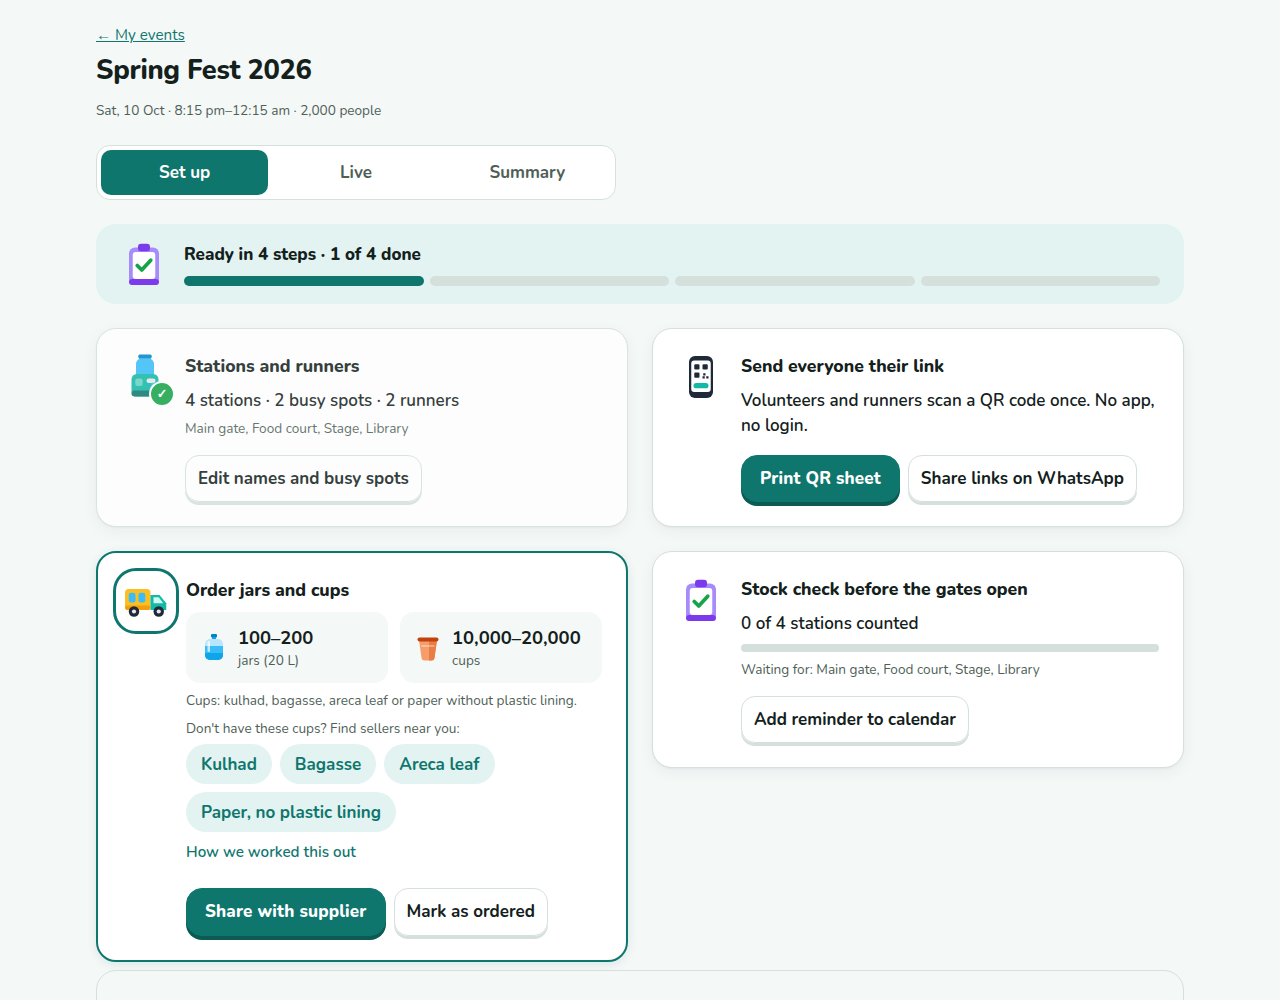
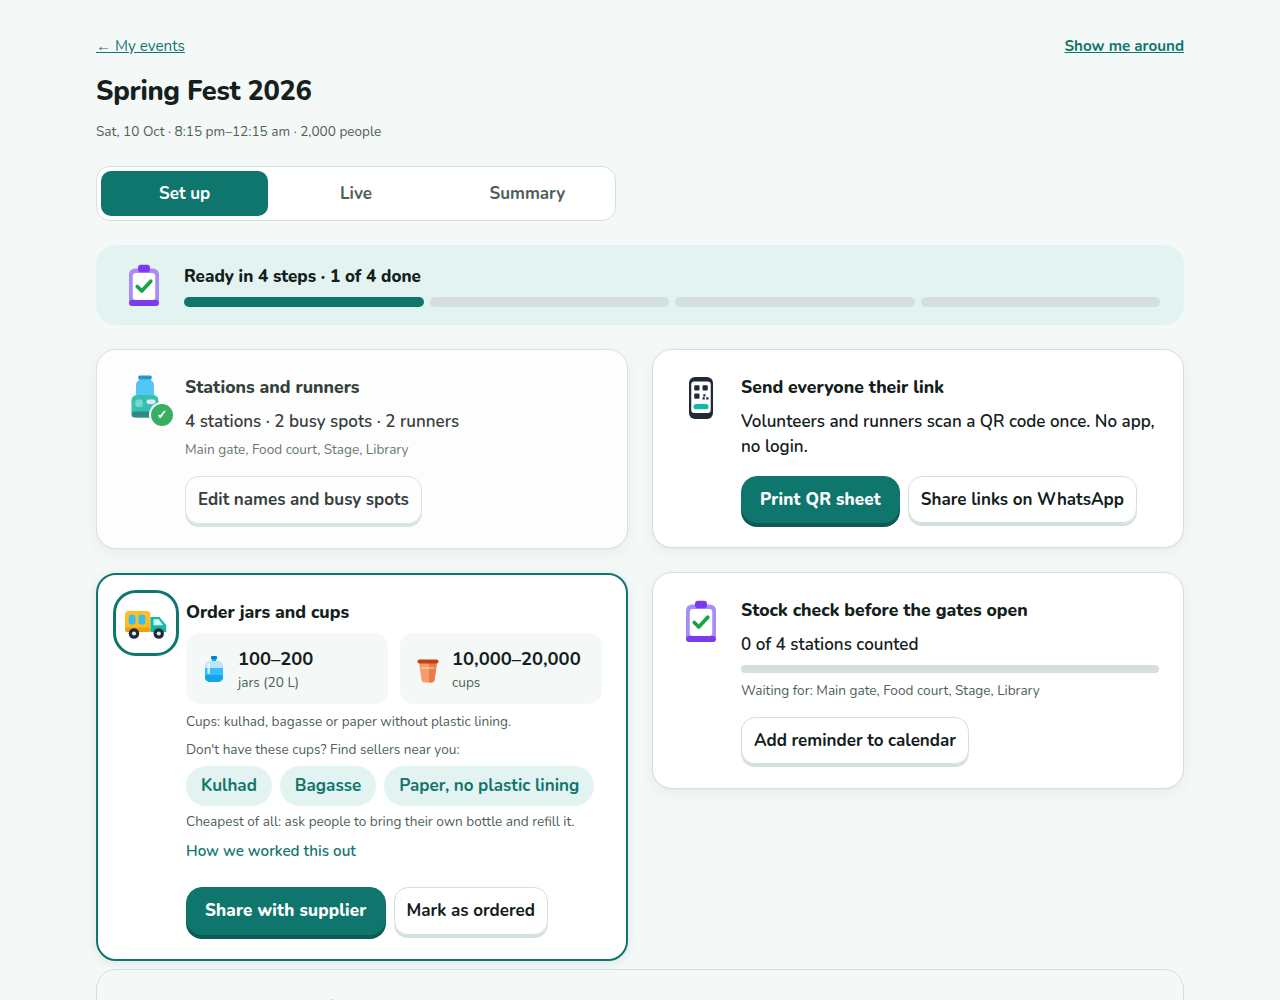
Cups: kulhad, bagasse, paper without plastic lining; bring-your-own-bottle tip

diff --git a/web/plan.html b/web/plan.html
@@ -86,7 +86,7 @@
         <section class="order-card" aria-live="polite">
           <p class="eyebrow">Order</p>
           <div class="order-item"><span class="icon-tile"><span class="art" data-art="jar"></span></span><span><strong id="planJars">–</strong><span class="small">jars of 20 L</span></span></div>
-          <div class="order-item"><span class="icon-tile"><span class="art" data-art="cup"></span></span><span><strong id="planCups">–</strong><span class="small">cups: kulhad, bagasse, areca leaf or paper without plastic lining</span></span></div>
+          <div class="order-item"><span class="icon-tile"><span class="art" data-art="cup"></span></span><span><strong id="planCups">–</strong><span class="small">cups: kulhad, bagasse or paper without plastic lining</span></span></div>
           <div class="cup-tip"><strong>Skip plastic-lined paper cups</strong><span class="small">Their lining sheds microplastics into hot drinks.</span></div>
           <p class="sr-only" id="order"></p>
         </section>
@@ -123,9 +123,9 @@
           <div class="cup-promo-row">
             <a class="cup-promo-btn" href="https://www.google.com/maps/search/?api=1&amp;query=kulhad+wholesale+near+me" target="_blank" rel="noopener">Kulhad</a>
             <a class="cup-promo-btn" href="https://www.google.com/maps/search/?api=1&amp;query=bagasse+cups+wholesale+near+me" target="_blank" rel="noopener">Bagasse</a>
-            <a class="cup-promo-btn" href="https://www.google.com/maps/search/?api=1&amp;query=areca+leaf+cups+wholesale+near+me" target="_blank" rel="noopener">Areca leaf</a>
             <a class="cup-promo-btn" href="https://www.google.com/maps/search/?api=1&amp;query=aqueous+coated+paper+cups+wholesale+near+me" target="_blank" rel="noopener">Paper, no plastic lining</a>
           </div>
+          <p class="small cup-promo-note">Cheapest of all: ask people to bring their own bottle and refill it.</p>
         </section>
       </section>
 

diff --git a/web/event.html b/web/event.html
@@ -50,14 +50,14 @@
             <div class="order-stat"><span class="art sm" data-art="jar"></span><span><strong id="orderJars">–</strong><span class="small">jars (20 L)</span></span></div>
             <div class="order-stat"><span class="art sm" data-art="cup"></span><span><strong id="orderCups">–</strong><span class="small">cups</span></span></div>
           </div>
-          <p class="small cup-line">Cups: kulhad, bagasse, areca leaf or paper without plastic lining.</p>
+          <p class="small cup-line">Cups: kulhad, bagasse or paper without plastic lining.</p>
           <div class="cup-find"><span class="small">Don't have these cups? Find sellers near you:</span>
             <div class="cup-find-row">
               <a class="chip-btn" href="https://www.google.com/maps/search/?api=1&amp;query=kulhad+wholesale+near+me" target="_blank" rel="noopener">Kulhad</a>
               <a class="chip-btn" href="https://www.google.com/maps/search/?api=1&amp;query=bagasse+cups+wholesale+near+me" target="_blank" rel="noopener">Bagasse</a>
-              <a class="chip-btn" href="https://www.google.com/maps/search/?api=1&amp;query=areca+leaf+cups+wholesale+near+me" target="_blank" rel="noopener">Areca leaf</a>
               <a class="chip-btn" href="https://www.google.com/maps/search/?api=1&amp;query=aqueous+coated+paper+cups+wholesale+near+me" target="_blank" rel="noopener">Paper, no plastic lining</a>
             </div>
+            <span class="small">Cheapest of all: ask people to bring their own bottle and refill it.</span>
           </div>
           <p class="sr-only" id="orderLine"></p>
           <details class="how"><summary>How we worked this out</summary><p class="small" id="orderBasis"></p></details>

diff --git a/web/event.js b/web/event.js
@@ -185,7 +185,7 @@ async function saveEvent(patch, status) {
 $('shareOrder').addEventListener('click', async () => {
   const t = orderTotals(data.plan.total);
   const when = data.event.startsAt ? dayTime(data.event.startsAt) : '';
-  await shareText(`Hello! For ${data.event.name}${when ? ` (${when})` : ''}, please deliver ${nf(t.jarsHigh)} sealed 20 L drinking-water jars and ${nf(t.cupsHigh)} cups (kulhad, bagasse, areca leaf or paper without plastic lining; please no plastic-lined paper cups). Thank you.`, `${data.event.name}: water order`);
+  await shareText(`Hello! For ${data.event.name}${when ? ` (${when})` : ''}, please deliver ${nf(t.jarsHigh)} sealed 20 L drinking-water jars and ${nf(t.cupsHigh)} cups (kulhad, bagasse or paper without plastic lining; please no plastic-lined paper cups). Thank you.`, `${data.event.name}: water order`);
   if (!data.event.setup?.ordered) await saveEvent({ setup: { ordered: true } });
 });
 $('markOrdered').addEventListener('click', () => saveEvent({ setup: { ordered: !data.event.setup?.ordered } }));

diff --git a/web/style.css b/web/style.css
@@ -779,3 +779,5 @@ body.ob-open { overflow: hidden; }
 .ob-tip-row .primary-btn { min-height: 44px; padding: 0 18px; font-size: 0.95rem; }
 .ob-tip-row .ob-skip { font-size: 0.9rem; }
 .replay-link { background: transparent; border: 0; box-shadow: none; padding: 0; color: var(--accent); font-weight: 700; font-size: 0.95rem; text-decoration: underline; min-height: 44px; }
+.cup-promo-row > .cup-promo-btn:last-child:nth-child(odd) { grid-column: 1 / -1; }
+.cup-promo .cup-promo-note { margin: 0; }

diff --git a/web/plan.js b/web/plan.js
@@ -4,6 +4,7 @@ import { api, param, clockTime } from './api.js';
 import { rememberEvent } from './store.js';
 import { mountArt } from './art.js';
 import { DEFAULT_LITRES_PER_PERSON_HR, JAR_LITRES, CUP_LITRES, PEOPLE_PER_OUTLET } from './core/plan.js';
+import './onboarding.js'; // honours ?intro=off here too (for recordings)
 
 const $ = (id) => document.getElementById(id);
 const STEPS = 5;

diff --git a/README.md b/README.md
@@ -99,7 +99,7 @@ All Lambdas run Node.js 22 on arm64 (Graviton: cheaper per millisecond than x86)
    - **Live**: problems first; OK stations fold away.
    - **Summary**: water served, bottles avoided, runner times.
 3. **No accounts or PIN.** Creating an event gives a private organiser link (`…#k=<key>`). The key sits after `#`, so it is never sent in the URL; the page sends it in a header and the server stores only its hash. The link is saved in "My events" on that device; "Send to myself" shares it to another device. Without it, the hub is view only.
-4. **First time on a device:** four short welcome slides on the home page, a 4-step tour of the hub for the organiser, and a 3-line card for volunteers and runners. Each shows once; "Show the intro again" / "Show me around" replay them. Add `?intro=off` to any page address to switch them off on that device (for recordings).
+4. **First time on a device:** four short welcome slides on the home page, a 4-step tour of the hub for the organiser, and a 3-line card for volunteers and runners. Each shows once; "Show the intro again" / "Show me around" replay them. Add `?intro=off` to the home, set-up or hub address to switch off the slides, the tour and the runner card on that device (for recordings).
 5. **Volunteers and runners** open their own link or QR code. Add to home screen for an app-like icon (web app manifest).
 
 ## Architecture
